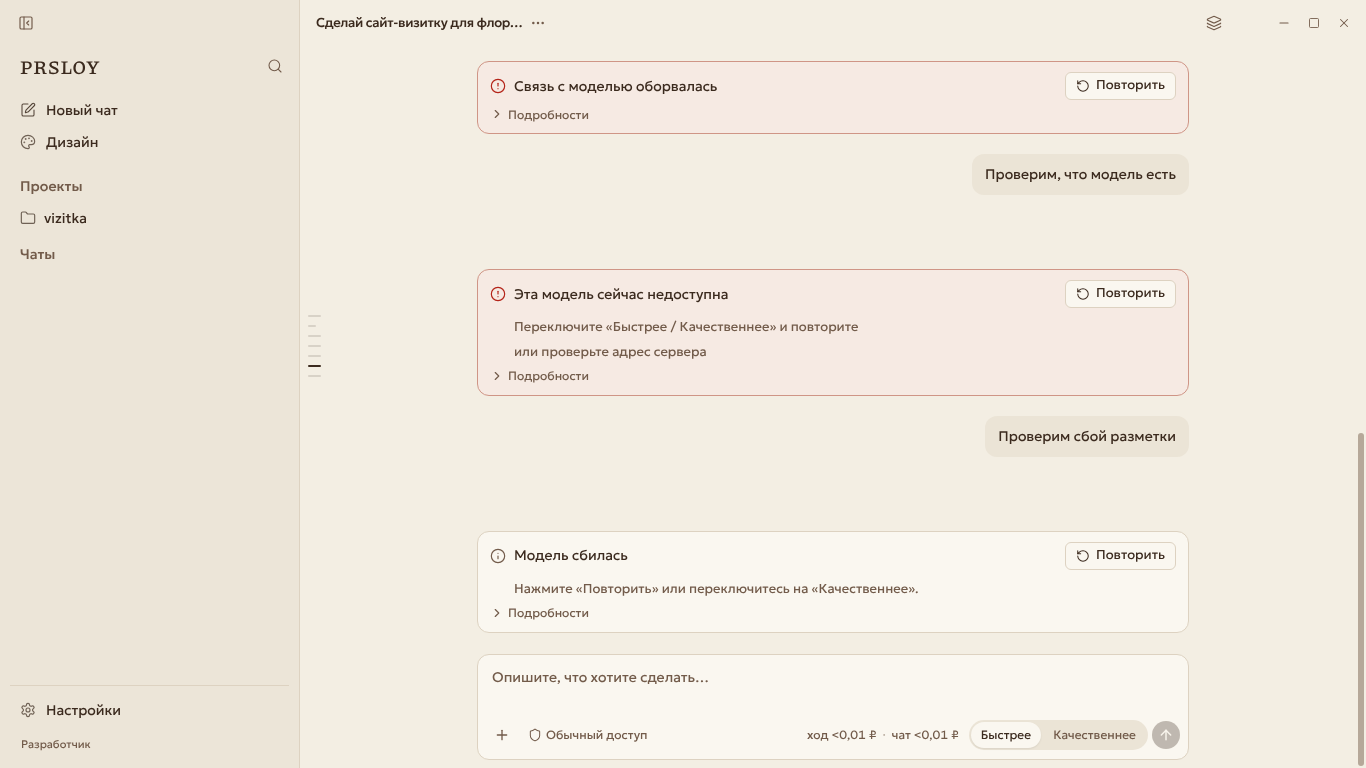
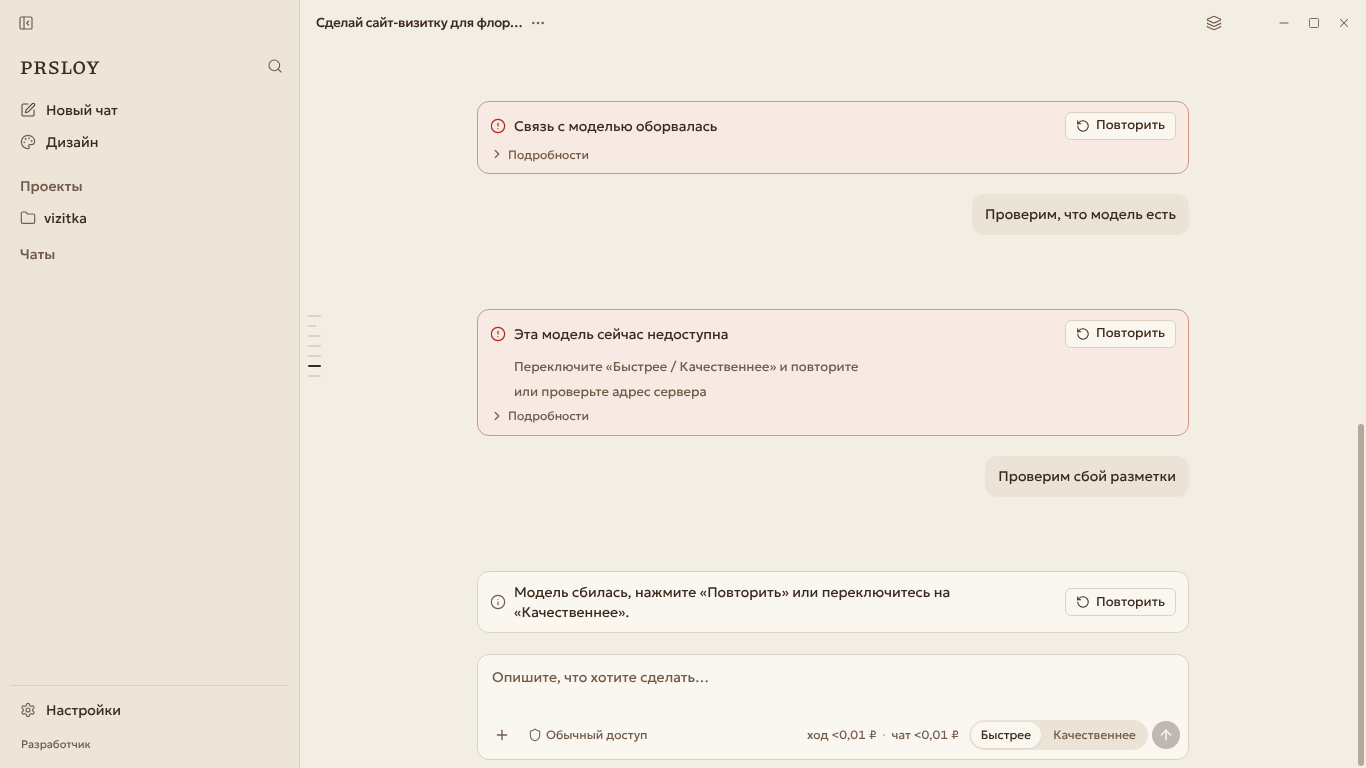
desktop/ui: harness cards show the harness's plain text (stage 9), failing check output from details; history custom rows from core's customType
Claude-Session: https://claude.ai/code/session_01T1MXX92ZtwWirroZLYeuiB

diff --git a/app/apps/desktop/src/renderer/components/HarnessCard.test.tsx b/app/apps/desktop/src/renderer/components/HarnessCard.test.tsx
@@ -6,27 +6,44 @@ import { HarnessCard } from "./HarnessCard.tsx";
 afterEach(cleanup);
 
 const BUDGET =
-  "Задача остановлена: исчерпан лимит вызовов тулов (25). Вызовов: 31, потрачено $0.12. Сделано: изменены файлы: index.html; команд запущено: 4.";
+  "Я остановился: на одну задачу у меня 25 шагов, и они закончились. Что успел: изменил index.html. Если нужно доделать, напишите «продолжай».";
 
 describe("HarnessCard", () => {
-  it("budget stop: a plain title and line, the harness's record folded away", () => {
-    render(<HarnessCard locale="ru" kind="budget" text={BUDGET} />);
+  it("budget stop: the harness's own plain message, nothing raw", () => {
+    render(<HarnessCard locale="ru" kind="budget" text={BUDGET} details={{ toolCalls: 25 }} />);
+    expect(screen.getByText(BUDGET)).toBeTruthy();
+    expect(screen.queryByText("Подробности")).toBeNull();
+    expect(screen.queryByTestId("harness-card-retry")).toBeNull();
+  });
+
+  it("a card without text falls back to the short title and line", () => {
+    render(<HarnessCard locale="ru" kind="budget" text="" />);
     expect(screen.getByText("Остановился: задача вышла за лимит")).toBeTruthy();
     expect(
       screen.getByText("Сделанное сохранено. Напишите «продолжай», чтобы доделать."),
     ).toBeTruthy();
-    expect(screen.queryByText(BUDGET)).toBeNull();
-    expect(screen.queryByTestId("harness-card-retry")).toBeNull();
+  });
+
+  it("failing check: the check's output folded under «Подробности»", () => {
+    render(
+      <HarnessCard
+        locale="ru"
+        kind="stopGate"
+        text="Проверка проекта всё ещё не проходит. Я дважды пытался исправить и остановился."
+        details={{ command: "npm test", code: 1, output: "1 failing" }}
+      />,
+    );
+    expect(screen.queryByText(/1 failing/)).toBeNull();
     fireEvent.click(screen.getByText("Подробности"));
-    expect(screen.getByText(BUDGET)).toBeTruthy();
+    expect(screen.getByText(/\$ npm test\s+1 failing/)).toBeTruthy();
   });
 
   it("confused model: offers the «Повторить» its text asks for", () => {
     const onRetry = vi.fn();
-    render(<HarnessCard locale="ru" kind="toolLeak" text="Модель сбилась" onRetry={onRetry} />);
-    expect(
-      screen.getByText("Нажмите «Повторить» или переключитесь на «Качественнее»."),
-    ).toBeTruthy();
+    const text = "Модель сбилась, нажмите «Повторить» или переключитесь на «Качественнее».";
+    render(<HarnessCard locale="ru" kind="toolLeak" text={text} onRetry={onRetry} />);
+    expect(screen.getByText(text)).toBeTruthy();
+    expect(screen.queryByText("Подробности")).toBeNull();
     fireEvent.click(screen.getByTestId("harness-card-retry"));
     expect(onRetry).toHaveBeenCalledTimes(1);
   });

diff --git a/app/apps/desktop/src/renderer/components/HarnessCard.tsx b/app/apps/desktop/src/renderer/components/HarnessCard.tsx
@@ -1,8 +1,8 @@
 /**
  * A harness card in the chat (second-model review, budget stop, failing project check,
- * confused model): a short line and an icon, no technical title. The review opens its
- * remarks; the others keep the harness's own text folded away under «Подробности», and the
- * confused model offers the «Повторить» its text asks for.
+ * confused model): the harness's own plain line and an icon, no technical title. The review
+ * opens its remarks, the failing check its output under «Подробности», and the confused model
+ * offers the «Повторить» its text asks for.
  */
 import { useState } from "react";
 import { ChevronRight, Info, ListChecks, RotateCcw, ShieldCheck } from "lucide-react";
@@ -12,6 +12,7 @@ import {
   harnessTitleKey,
   harnessUsesOwnText,
   reviewRemarks,
+  stopGateOutput,
   type HarnessCardKind,
 } from "../lib/harness-card.ts";
 import { t, type Locale } from "../lib/i18n.ts";
@@ -26,15 +27,18 @@ export function HarnessCard(props: {
   disabled?: boolean | undefined;
 }) {
   const [open, setOpen] = useState(false);
-  const bodyKey = harnessBodyKey(props.kind);
+  const ownText = harnessUsesOwnText(props.kind) ? props.text.trim() : "";
+  // The generic title and line only stand in for a card that came without its text.
+  const title = ownText || t(props.locale, harnessTitleKey(props.kind));
+  const bodyKey = ownText ? undefined : harnessBodyKey(props.kind);
   const retry = harnessOffersRetry(props.kind) ? props.onRetry : undefined;
   const remarks = props.kind === "review" ? reviewRemarks(props.details) : [];
-  const title =
-    harnessUsesOwnText(props.kind) && props.text.trim()
-      ? props.text.trim()
-      : t(props.locale, harnessTitleKey(props.kind));
-  // «Модель сбилась» and the review's line are the whole message already.
-  const raw = props.kind === "toolLeak" || props.kind === "review" ? "" : props.text.trim();
+  const raw =
+    props.kind === "stopGate"
+      ? (stopGateOutput(props.details) ?? "")
+      : props.kind === "note"
+        ? props.text.trim()
+        : "";
   const Icon = props.kind === "review" ? (remarks.length ? ListChecks : ShieldCheck) : Info;
   const toggleLabel = remarks.length
     ? t(props.locale, "harness.review.remarks", { count: String(remarks.length) })

diff --git a/app/apps/desktop/src/renderer/lib/harness-card.ts b/app/apps/desktop/src/renderer/lib/harness-card.ts
@@ -1,7 +1,8 @@
 /**
  * The harness's visible cards (pi custom messages `prsloy-harness*`): the budget stop, a
- * project check that still fails, a model that leaked its tool call as text. Their raw text is
- * written for the record (limits, check output); the owner gets a plain title and one line.
+ * project check that still fails, a model that leaked its tool call as text, the second-model
+ * review. The harness writes their text for the owner (plain Russian), so the card shows it as
+ * is; the short title and line here are only for a card that arrives without text.
  */
 import type { MessageKey } from "./i18n.ts";
 
@@ -30,9 +31,19 @@ export function harnessBodyKey(kind: HarnessCardKind): MessageKey | undefined {
   return kind === "note" || kind === "review" ? undefined : `harness.${kind}.body`;
 }
 
-/** The review card's own line is already plain («Проверила вторая модель: замечаний нет»). */
+/** Every known card's own text is the message; a generic note keeps a title of its own. */
 export function harnessUsesOwnText(kind: HarnessCardKind): boolean {
-  return kind === "review";
+  return kind !== "note";
+}
+
+/** The failing check's command and output (`details` of the stop-gate card), for «Подробности». */
+export function stopGateOutput(details: unknown): string | undefined {
+  const value = details as { command?: unknown; output?: unknown } | null | undefined;
+  const output = typeof value?.output === "string" ? value.output.trim() : "";
+  if (!output) return undefined;
+  return typeof value?.command === "string" && value.command
+    ? `$ ${value.command}\n${output}`
+    : output;
 }
 
 export type ReviewRemark = { where?: string; problem: string };

diff --git a/app/apps/desktop/src/renderer/lib/harness-card.test.ts b/app/apps/desktop/src/renderer/lib/harness-card.test.ts
@@ -7,6 +7,7 @@ import {
   harnessUsesOwnText,
   isHarnessData,
   reviewRemarks,
+  stopGateOutput,
 } from "./harness-card.ts";
 
 describe("harness cards", () => {
@@ -36,6 +37,8 @@ describe("harness cards", () => {
 
   it("the review keeps its own plain line and reads its remarks from details", () => {
     expect(harnessUsesOwnText("review")).toBe(true);
+    expect(harnessUsesOwnText("budget")).toBe(true);
+    expect(harnessUsesOwnText("note")).toBe(false);
     expect(harnessBodyKey("review")).toBeUndefined();
     expect(
       reviewRemarks({
@@ -52,5 +55,14 @@ describe("harness cards", () => {
     ]);
     expect(reviewRemarks(undefined)).toEqual([]);
     expect(reviewRemarks({ items: "nope" })).toEqual([]);
+  });
+
+  it("the failing check's output comes from the card's details", () => {
+    expect(stopGateOutput({ command: "npm test", code: 1, output: " 1 failing \n" })).toBe(
+      "$ npm test\n1 failing",
+    );
+    expect(stopGateOutput({ output: "boom" })).toBe("boom");
+    expect(stopGateOutput({ command: "npm test", output: "" })).toBeUndefined();
+    expect(stopGateOutput(undefined)).toBeUndefined();
   });
 });

diff --git a/app/apps/desktop/src/renderer/lib/timeline.test.ts b/app/apps/desktop/src/renderer/lib/timeline.test.ts
@@ -40,7 +40,24 @@ describe("runtime timeline", () => {
     expect(item?.kind === "system" && isHostCrash(item)).toBe(true);
   });
 
-  it("a custom message from history gets its type back, as live", () => {
+  it("a custom message from history is the same row as live", () => {
+    const [card] = historyToTimeline([
+      {
+        role: "system",
+        text: "Проверила вторая модель: замечаний нет",
+        customType: "prsloy-harness.second-opinion",
+        title: "prsloy-harness.second-opinion",
+      },
+    ]);
+    expect(card).toMatchObject({
+      kind: "system",
+      title: "prsloy-harness.second-opinion",
+      text: "Проверила вторая модель: замечаний нет",
+      extension: true,
+    });
+  });
+
+  it("an older history's «[type] text» custom row gets its type back", () => {
     const items = historyToTimeline([
       { role: "system", text: "[prsloy-harness.budget] Задача остановлена: исчерпан лимит" },
       { role: "system", text: "Обычная заметка" },

diff --git a/app/apps/desktop/src/renderer/lib/timeline.ts b/app/apps/desktop/src/renderer/lib/timeline.ts
@@ -228,14 +228,17 @@ export function historyToTimeline(history: SessionHistoryMessage[]): TimelineIte
       });
       continue;
     }
-    // History flattens a custom message to «[customType] text»: give it back its type, as live.
-    const custom = item.title ? undefined : /^\[([\w.-]+)\] ?([\s\S]*)$/u.exec(item.text);
+    // A custom message (harness card, extension note): the same row as live `custom.message`.
+    // Older history flattened it to «[customType] text»; read that too.
+    const legacy =
+      item.customType || item.title ? undefined : /^\[([\w.-]+)\] ?([\s\S]*)$/u.exec(item.text);
+    const customType = item.customType ?? legacy?.[1];
     items.push({
       id: `history-system-${index}`,
       kind: "system",
-      text: custom ? (custom[2] ?? "") : item.text,
-      ...(custom
-        ? { title: custom[1] ?? "", extension: true }
+      text: legacy ? (legacy[2] ?? "") : item.text,
+      ...(customType
+        ? { title: customType, extension: true }
         : item.title
           ? { title: item.title }
           : {}),
